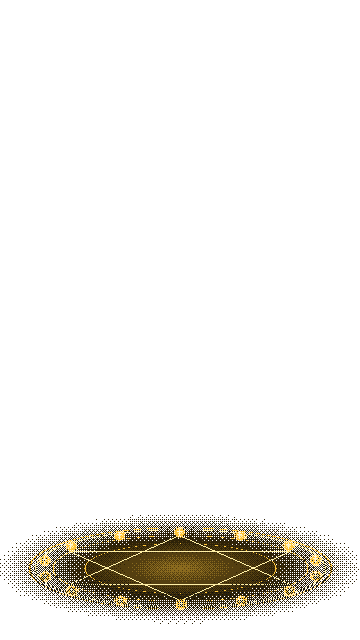
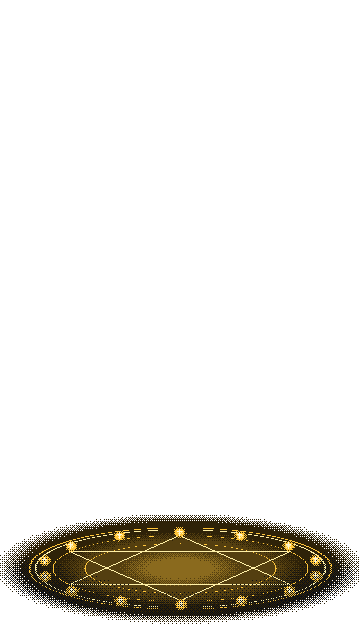
art: measure the noise, try two fixes, keep the small one
The noise is the dither, and the dither is structural: 66 fixed colours,
no intermediate values and no alpha, so every soft gradient is an ordered
screen between two adjacent tones, drawn at x2 so each cell is a 2x2
block. Tracking the shipped PNG across its whole history, the DENSITY of
scattered pixels has never moved (~17% of pixels differ from all four
neighbours, first version to now). The AMPLITUDE went up 60%, and it went
up in three commits, all of which lit or brightened the ward.

Tried a clustered-dot screen against the dispersed Bayer one. Measured far
better - isolated pixels down 87%, high-frequency energy down 28% - and
looked worse: the ward pools came out as a visible diagonal lattice and
the sky went blotchy. A regular pattern belonging to nothing in the
fiction is more conspicuous than the scatter it replaces. CLUSTER8 stays
in raster.py behind a DITHER selector, one line from use.

Tried collapsing the ward's three overlapping ground pools into one. Six
stops over the same radius did nothing at all (-1%) - it trades band width
for band count and the dithered area comes out identical, which is worth
knowing before anyone tries it again. Repeating each stop so half the ramp
is SOLID does help, but only 3% hf and 8% isolated in that band. Kept: it
is simpler code and marginally quieter, and it looks the same.

So the honest result is that the ward layer is the loudest thing in the
frame but most of that is its rings, hexagram and rune ticks - which are
[…]

Changed region(s): [[0.0, 0.8125, 1.0, 0.9688]]

diff --git a/tools/art/raster.py b/tools/art/raster.py
@@ -31,6 +31,43 @@ BAYER8 = [
 ]
 
 
+# The clustered-dot alternative, and the one actually in use. Same 8x8 tile and the same 0-63
+# thresholds, but the low values are gathered around two diagonal centres instead of being
+# spread as far apart as possible - a halftone screen rather than a Bayer one.
+#
+# Why: the palette has 66 fixed colours, no intermediate values and no alpha, so every soft
+# gradient in this project is a dither between two adjacent tones. A DISPERSED screen scatters
+# those pixels as widely as it can, which is mathematically the best approximation and visually
+# the noisiest possible one - and the art is drawn at x2, so every one of those scattered
+# pixels is a 2x2 block on screen. Measured across the title screen, a third of the pixels in
+# the ward's light pools differed from all four of their neighbours. A clustered screen puts
+# the same number of pixels down in small clumps, which reads as texture rather than sparkle.
+#
+# The cost is that clumps can moire against other regular structure, and that at very low
+# contrast the clumps are more visible AS clumps than scattered pixels are. Swap DITHER back to
+# BAYER8 to compare; nothing else needs to change.
+CLUSTER8 = [
+    [24, 10, 12, 26, 35, 47, 49, 37],
+    [8, 0, 2, 14, 45, 59, 61, 51],
+    [22, 6, 4, 16, 43, 57, 63, 53],
+    [30, 20, 18, 28, 33, 41, 55, 39],
+    [34, 46, 48, 38, 25, 11, 13, 27],
+    [44, 58, 60, 50, 9, 1, 3, 15],
+    [42, 56, 62, 52, 23, 7, 5, 17],
+    [32, 40, 54, 36, 31, 21, 19, 29],
+]
+
+# One name, so a change of screen is one line and every generator moves together.
+#
+# BAYER8 is what ships. CLUSTER8 was tried against it and measured far better - isolated
+# pixels across the title screen fell 87%, high-frequency energy 28% - and looked worse: the
+# ward's ground pools came out as a visible diagonal lattice, and the sky went blotchy rather
+# than grainy. A regular pattern that belongs to nothing in the fiction is more conspicuous
+# than the scatter it replaces. Keep it here; it is one line away if a future scene has large
+# flat gradients where a halftone would read as intentional.
+DITHER = BAYER8
+
+
 def rgb(h):
     h = h.lstrip("#")
     return (int(h[0:2], 16), int(h[2:4], 16), int(h[4:6], 16), 255)
@@ -174,7 +211,7 @@ class Canvas(object):
                     t = min(1.0, max(0.0, pow(min(1.0, max(0.0, t + bias)), gamma))) * (n - 1)
                     i = min(n - 2, int(t))
                     f = t - i
-                    th = BAYER8[y % 8][x % 8] / 64.0
+                    th = DITHER[y % 8][x % 8] / 64.0
                     self.set(x, y, colors[i + 1] if f > th else colors[i])
 
     # --- dithered blends ----------------------------------------------------
@@ -189,7 +226,7 @@ class Canvas(object):
             i = min(n - 2, int(t))
             f = t - i
             for x in range(int(x0), int(x1) + 1):
-                th = BAYER8[y % 8][x % 8] / 64.0
+                th = DITHER[y % 8][x % 8] / 64.0
                 self.set(x, y, colors[i + 1] if f > th else colors[i])
 
     def radial(self, cx, cy, rx, ry, colors):
@@ -205,7 +242,7 @@ class Canvas(object):
                 t = d * (n - 1)
                 i = min(n - 2, int(t))
                 f = t - i
-                th = BAYER8[y % 8][x % 8] / 64.0
+                th = DITHER[y % 8][x % 8] / 64.0
                 self.set(x, y, colors[i + 1] if f > th else colors[i])
 
     def vignette(self, colors, power=1.6, only_opaque=False):
@@ -231,7 +268,7 @@ class Canvas(object):
                 if i >= n:
                     i = n - 1
                 f = t - i
-                th = BAYER8[y % 8][x % 8] / 64.0
+                th = DITHER[y % 8][x % 8] / 64.0
                 idx = i if f > th else i - 1
                 if 0 <= idx < n:
                     if only_opaque and not self.px[x, y][3]:

diff --git a/tools/art/splash.py b/tools/art/splash.py
@@ -416,10 +416,19 @@ def vigil(beard="mane-spear", ward=None, ground=None, wood="open",
     # The pulse is carried by the SIZE of the light pools and by whether the hottest tone
     # survives on the tick marks - never by fading anything. A tint or an alpha ramp would
     # blend, and a blended pixel is not one of the 66 the contract allows.
+    #
+    # ONE pool, and every stop REPEATED. The three-pool version was the loudest single source of
+    # noise in the frame: adding the ward layer to the composite more than doubled the
+    # high-frequency energy of the bottom half, and a patch of pure pool with no rings or ticks
+    # in it had a third of its pixels differing from all four of their neighbours.
+    #
+    # Simply adding more stops does nothing, which is worth knowing before trying it again - it
+    # trades band width for band count and the total dithered area comes out the same. What
+    # reduces the dither is SOLID bands: a repeated stop (G2, G2) is a segment with nothing to
+    # interpolate, so half this ramp is flat colour and only the three boundaries scatter.
     w = T("ward")
-    w.radial(cxp, cyp, 208 * gain, 62 * gain, [GROUND[4], GROUND[4], None])
-    w.radial(cxp, cyp, 170 * gain, 47 * gain, [GROUND[3], GROUND[4], None])
-    w.radial(cxp, cyp, 122 * gain, 33 * gain, [GROUND[2], GROUND[3], None])
+    w.radial(cxp, cyp, 208 * gain, 62 * gain,
+             [GROUND[2], GROUND[2], GROUND[3], GROUND[3], GROUND[4], GROUND[4], None])
     w.ring(cxp, cyp, 152, 41, A[3], 2)
     w.ring(cxp, cyp, 146, 39, A[2], 2)
     w.ring(cxp, cyp, 128, 33, A[3], 1)
@@ -493,7 +502,7 @@ def vigil(beard="mane-spear", ward=None, ground=None, wood="open",
     # The vignette is scene light, so it runs before the type, never after. Running it
     # last dithered frame-edge darkening straight over the wordmark, which is what made
     # two of these screens unreadable.
-    for _n in (STAGES if layers else ("back",)):
+    for _n in (STAGES if layers else ("backA",)):
         _cv[_n].vignette([None, None, M["stone"][4], OCC], 2.2, only_opaque=layers)
     sk.wordmark(T("backB"), 180, 78,
                 [M["skin"][0], M["skin"][0], M["skin"][1], M["skin"][2], M["skin"][3]],

diff --git a/tools/art/hero.py b/tools/art/hero.py
@@ -549,7 +549,7 @@ def _hat_shadow(c, x0, y0, x1, y1, y_full, y_none):
         if k <= 0:
             continue
         for x in range(int(x0), int(x1) + 1):
-            if k < 1.0 and raster.BAYER8[y % 8][x % 8] / 64.0 > k:
+            if k < 1.0 and raster.DITHER[y % 8][x % 8] / 64.0 > k:
                 continue
             px = c.get(x, y)
             if px[3] and px in m:
